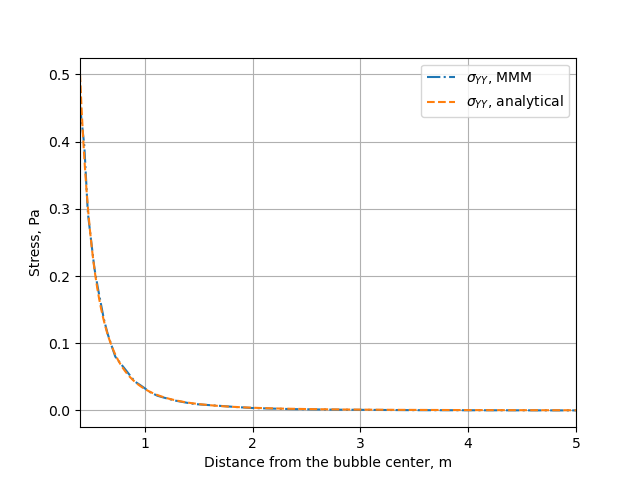
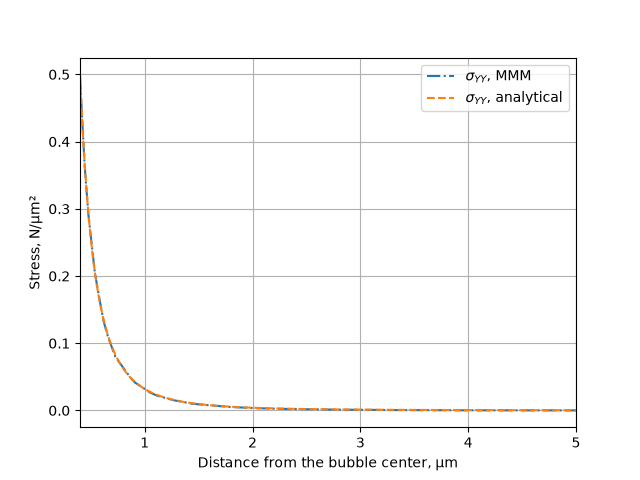
bubble: give the pressure and the stresses in N/µm², the unit of the Young modulus

diff --git a/bubble/verification/mmm_vs_analytical.py b/bubble/verification/mmm_vs_analytical.py
@@ -30,8 +30,8 @@ p1 = plt.plot(coordinate, stress_tt, '-.', label="$\sigma_{YY}$, MMM")
 p2 = plt.plot(coordinate, analytical_hoop_stress,
               '--', label="$\sigma_{YY}$, analytical")
 plt.xlim([bubble_radius, rev_side_length/2])
-plt.xlabel("Distance from the bubble center, m")
-plt.ylabel("Stress, Pa")
+plt.xlabel("Distance from the bubble center, µm")
+plt.ylabel("Stress, N/µm²")
 plt.legend()
 plt.grid(True)
 plt.savefig('comparison.png')

diff --git a/bubble/README.md b/bubble/README.md
@@ -28,7 +28,7 @@ The simulation considers an empty (i.e., not meshed) cavity, on whose surface we
  - E = 150 × 10<sup>-3</sup> N µm<sup>-2</sup>
  - $$\nu = 0.3$$
 
-The elastic modulus is rescaled to consistently describe the geometry in micrometers, rather than in SI units. This choice is made to facilitate the creation of more complex geometries when using `Mérope`, given the characteristic length scale of the considered inclusions.
+The elastic modulus is rescaled to consistently describe the geometry in micrometers, rather than in SI units. This choice is made to facilitate the creation of more complex geometries when using `Mérope`, given the characteristic length scale of the considered inclusions. Consequently, the internal pressure and the stresses are also expressed in N µm<sup>-2</sup> (1 N µm<sup>-2</sup> = 10<sup>12</sup> Pa).
 
 The geometry is meshed using quadratic elements, to better describe the spherical inclusions contained in the RVE. Although `MFEM` allows sub-, super-, and isoparametric analyses, we recommend sticking at least to the isoparametric choice (i.e., not subparametric) for the polynomial shape functions.
 
@@ -57,7 +57,7 @@ Usage: ./test-bubble [options] ...
 | `-sf <double>, --scale-factor-vp <double>`| double | `0.9`                    | Scaling factor for the principal stress.    |
 | `-n <string>, --name-case <string>`       | string | `TestCaseBubble`         | Name of the test case.                      |
 | `-dm <double>, --dmin <double>`           | double | `0.950`                  | Distance to evaluate bubble rupture.        |
-| `-pr <double>, --pref <double>`           | double | `1`                      | Internal bubble pressure in Pa.             |
+| `-pr <double>, --pref <double>`           | double | `1`                      | Internal bubble pressure in N/µm².          |
 
 The command to execute the test case is
 
